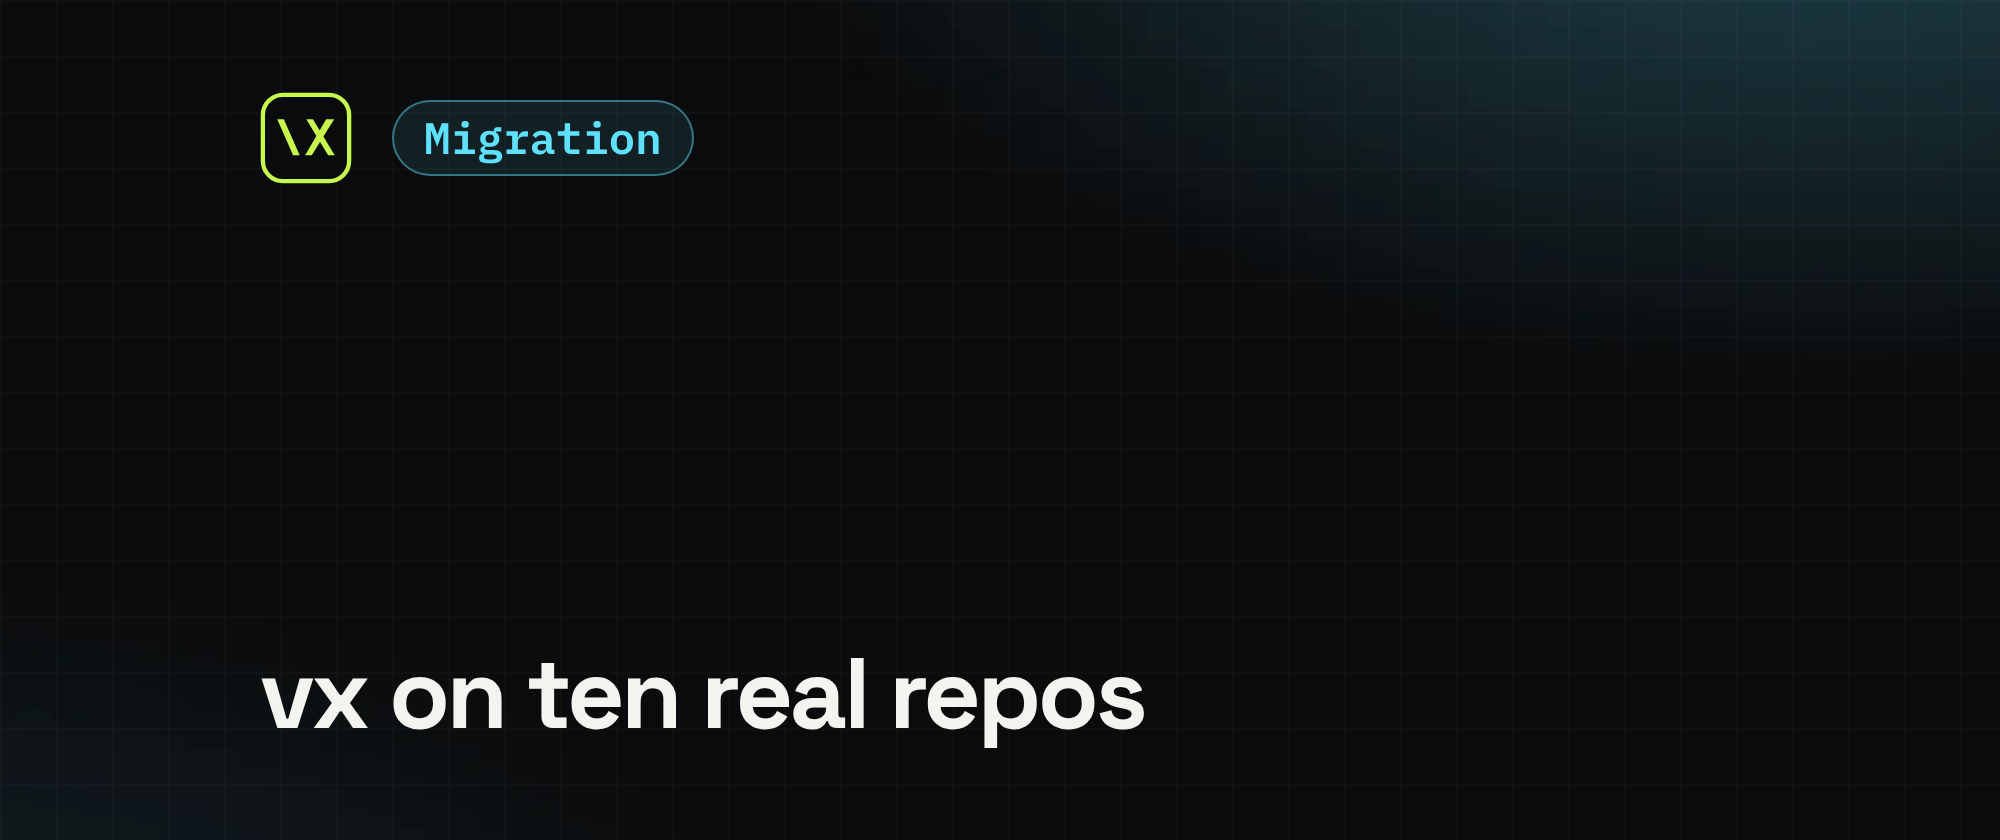
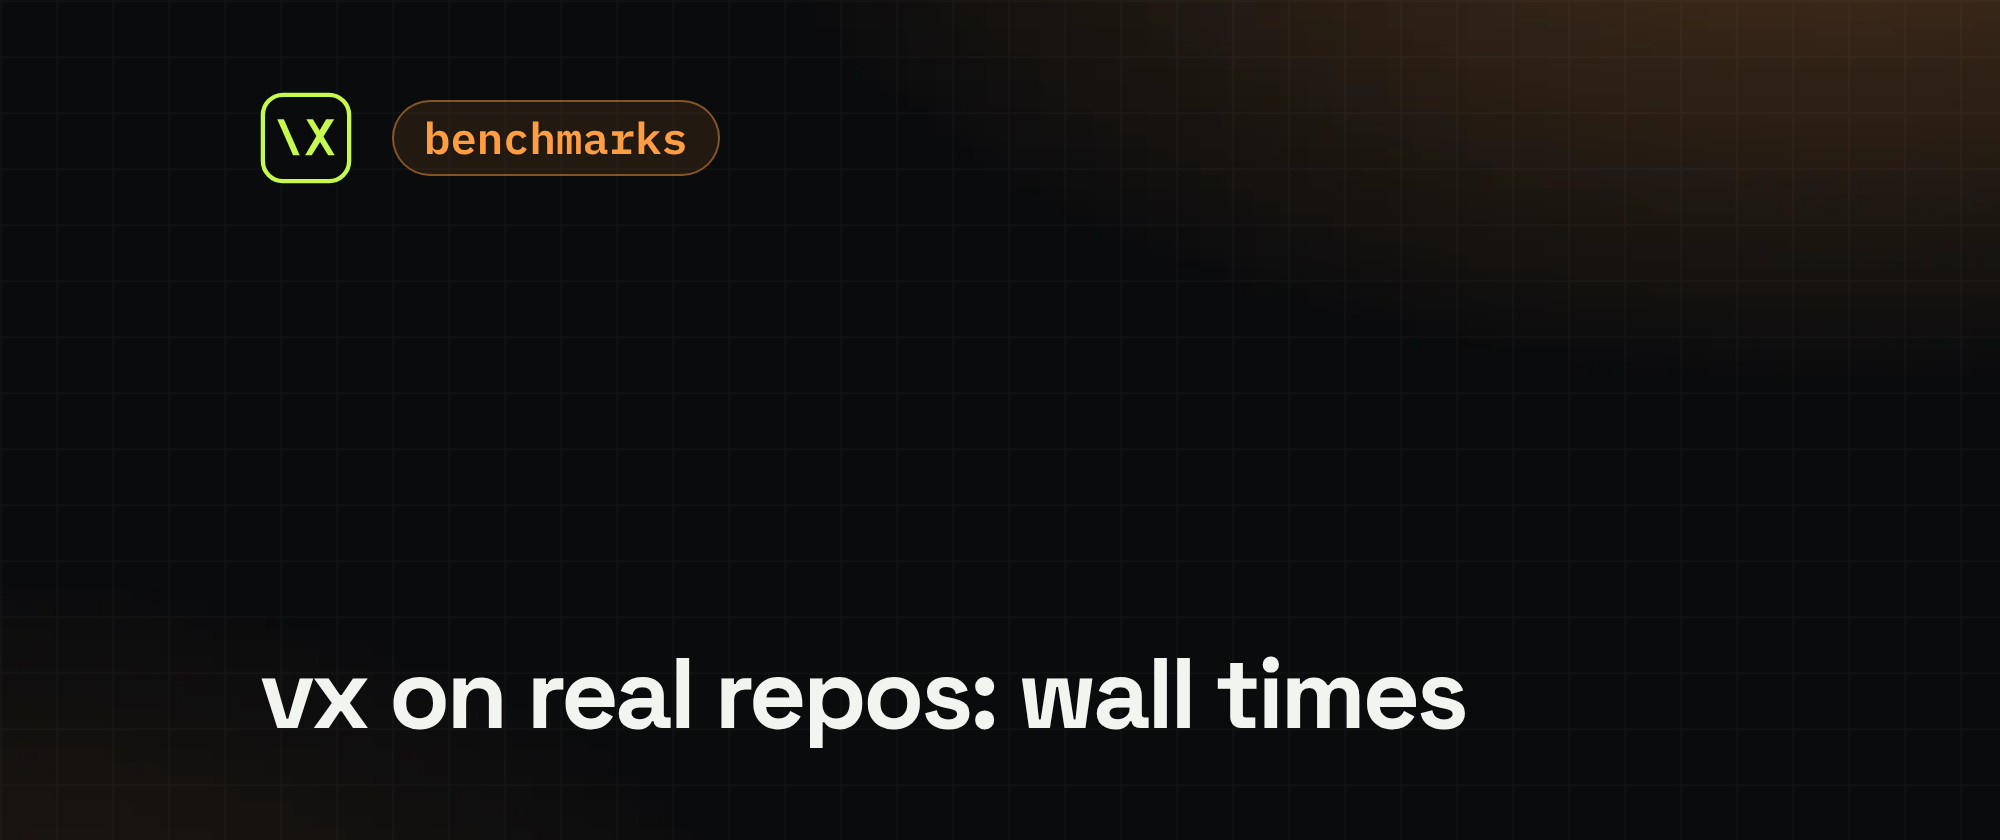
docs(vx-docs): make vx-on-real-repos a wall-time post
Claude-Session: https://claude.ai/code/session_012eDNdmtGv5tY35yRtodFB6

Changed region(s): [[0.651, 0.0, 1.0, 0.1857], [0.248, 0.7738, 0.744, 0.8976], [0.186, 0.1238, 0.372, 0.2167]]

diff --git a/packages/vx-docs/src/content/docs/blog/vx-on-real-repos.md b/packages/vx-docs/src/content/docs/blog/vx-on-real-repos.md
@@ -1,157 +1,89 @@
 ---
-title: 'vx on ten real repos'
-date: 2026-10-14T20:30:00Z
+title: 'vx on real repos: wall times'
+date: 2026-10-14T22:00:00Z
 authors:
   - vzn
 tags:
-  - correctness
+  - benchmarks
   - comparison
-  - migration
-excerpt: 'We moved ten open-source monorepos from Turborepo and Nx to vx and diffed every run against the tool they already use: exit codes, output bytes, cache hits, what an edit re-runs. Most matched. Six bugs were ours, and each is fixed.'
+excerpt: 'Open-source monorepos that already run on Turborepo or Nx, timed under their own runner and under vx: cold, cache restore, one-file edit and a clean clone. Raw seconds, min of three, slower rows included.'
 ---
 
-A synthetic benchmark tells you what a tool costs. It cannot tell you
-whether the tool is right on a repo someone else wrote. So we took
-open-source monorepos that already run on Turborepo or Nx, moved each
-to native vx config with `vx init`, and ran both tools side by side.
-The question was not which one is quicker. It was whether vx builds
-the same thing, restores the same thing and re-runs the same thing.
+The [synthetic benchmark](../honest-benchmarks/) runs one generated
+graph. This post times repos someone else wrote: open-source monorepos
+that already use Turborepo or Nx, each moved to native vx config with
+`vx init`, then run under both tools on the same machine.
 
-## The method
-
-Every repo was pinned to one commit, with its own lockfile and its own
-package manager. vx was built from `main` at the time of each run. For
-each repo the harness ran:
-
-1. **Cold.** Caches and outputs wiped. The rival ran twice, to learn
-   what it does not reproduce against itself. vx ran once.
-2. **Restore.** Outputs wiped, caches kept. Every task should be a hit.
-3. **Edit.** One file changed. The set of tasks each tool re-runs
-   should match.
-4. **Clean clone.** A fresh `git clone` at another path sharing the
-   cache. Every task should be a hit again.
-
-After each arm it compared exit codes, the sha256 of every untracked
-file the run wrote, and hit or miss per task. For `--affected` it made
-one committed change per scenario and compared vx's projects with
-`turbo ls --affected` or `nx show projects --affected`.
+Both tools build the same outputs; that is the assumption behind every
+row.
 
 ## The repos
 
-| Repo | Commit | Rival | Tasks compared | Result |
-| --- | --- | --- | --- | --- |
-| create-t3-turbo | 8f945b7 | Turborepo 2.5.8 | `build typecheck`, 11 | parity after two fixes |
-| react-email | 1531a39 | Turborepo 2.9.14 | `build`, 4 | parity |
-| trpc | d756e59 | Turborepo 2.10.12 | `build`, 7 | parity |
-| vueuse | ad2822b | Turborepo 2.10.12 | `build`, 12 | parity (both fail cold) |
-| medusa | 5018ab67 | Turborepo 1.13.4 | `build build:plugin`, 83 | parity after two fixes |
-| cal.com | 54343aa | Turborepo 2.7.1 | `build`, embeds and platform | parity, one cosmetic diff |
-| TanStack query | 817bd02 | Nx 23.2.1 | `build`, 25 | parity |
-| vercel/ai | e8c8e32 | Turborepo 2.9.14 | `build`, 82 | parity |
-| documenso | d4e6eeaf | Turborepo 2.10.5 | `--affected`, 9 commits and working-tree edits | parity |
-| typescript-eslint | 57e7cccce | Nx 23 | `--affected` | after one fix, vx never selects less |
+| Repo | Commit | Rival | Tasks timed |
+| --- | --- | --- | --- |
+| create-t3-turbo | 8f945b7 | Turborepo 2.5.8 | `build typecheck`, 11 |
+| vercel/ai | e8c8e32 | Turborepo 2.9.14 | `build`, 82 |
+| typescript-eslint | 57e7cccce | Nx 23.2.0 | `build`, 18 |
 
-An eleventh, n8n, never got that far: its `pnpm install` could not
-fetch a tarball through our runner's network policy.
+## Method
 
-## Where they matched
+- One cloud container: 4 vCPU (Intel Xeon @ 2.10GHz), 15 GB RAM, Linux
+  6.18, nothing else running.
+- vx built from `main` (d81d9b4) with `bun build --compile` on Bun 1.4.2,
+  configs from `vx init`, then `vx lock`. Node 22.22.0.
+- Concurrency 10 for vx and Turborepo; Nx at `--parallel=5`.
+- Local cache only for both tools: no remote cache, no daemon, no
+  telemetry.
+- Four arms, each tool wiping only its own cache:
+  - **cold**: cache and every build output wiped.
+  - **restore**: outputs wiped, cache kept.
+  - **edit**: one source file gets a new line, outputs kept.
+  - **clone**: a fresh `git clone` at another path sharing the first
+    checkout's cache, with no outputs.
+- Three reps. Each rep runs every arm for both tools, and the order
+  alternates (the rival first in reps 1 and 3, vx first in rep 2). Each
+  cell is the minimum of the three, in seconds.
 
-On react-email, TanStack query and vercel/ai, every arm agreed. trpc
-agreed on cold, restore and edit; it had no clean-clone arm.
-vercel/ai is the largest: 82 packages, 783 tasks written with no
-`TODO` left, identical output trees (0 name and 0 byte differences),
-82 of 82 hits on restore and on a clean clone, and the same re-run set
-for a source file, a `package.json`, a README, a `tsconfig.json`, a new
-test file, a deleted `CHANGELOG.md` and three environment variables.
-TanStack query came from Nx's resolved project graph: 614 tasks, no
-`TODO`, identical cold trees, 25 of 25 hits on restore and clone, and
-the same one hit and 24 runs after an edit to `query-core`.
+## Results
 
-Some differences were the same under both tools. Next.js names chunks
-nondeterministically, so react-email's trees differ between two Turbo
-runs too. A file no task declares as an output, like a `next-env.d.ts`
-or svelte-kit's intermediates, is not restored by either.
+Seconds, min of 3. Lower is less time.
 
-## Where vx was worse, and what we fixed
+### create-t3-turbo (Turborepo 2.5.8)
 
-Six problems were ours, and each fix is merged.
+| Arm | Turborepo | vx |
+| --- | ---: | ---: |
+| cold | 14.55 | 12.52 |
+| restore | 0.31 | 0.12 |
+| edit `validators/src/index.ts` (4 of 11 re-run) | 5.14 | 5.61 |
+| clone | 0.32 | 0.12 |
 
-- **Ordering edges that should not exist.** A `main`-only change, never
-  released, ordered a task after any task writing a file it reads. On
-  create-t3-turbo it counted a file the inputs excluded, so every build
-  waited for `prettier --check`, which then failed on the config vx had
-  just written: 10 tasks skipped where Turborepo passed 11 of 11.
-  cal.com got the same extra edges. The change was reverted
-  ([#3514](https://github.com/vznjs/vx/pull/3514)).
-- **Written configs that broke the repo's own checks.** On medusa,
-  `vx init`'s `vx.config.ts` failed two plugin builds with TS1541 (a
-  CommonJS package importing a type from an ES module), and on
-  create-t3-turbo it failed the repo's formatter. `vx init` now writes
-  `.mts` where the package needs it and formats what it writes
-  ([#3526](https://github.com/vznjs/vx/pull/3526)). medusa now passes
-  83 of 83 under both tools.
-- **Tasks mapped as uncached.** Six medusa builds read committed files
-  under their own outputs, so the mapping left them uncached and a
-  restore ran them again: 75 hits to Turborepo's 81. vx now never
-  deletes a committed file under an output and keeps those tasks cached
-  ([#3514](https://github.com/vznjs/vx/pull/3514)); restore is now 83 of 83 under both.
-  On create-t3-turbo, `build` and `typecheck` share one
-  `tsbuildinfo` file, which left three typechecks uncached; that is
-  fixed too ([#3478](https://github.com/vznjs/vx/pull/3478)).
-- **A glob that matched less than Turborepo's.** Turborepo's `*/**`
-  also matches a package's root files; the mapped glob did not, so
-  medusa's restore left one `tsconfig.tsbuildinfo` out. Outputs and
-  inputs now match as Turborepo does
-  ([#3542](https://github.com/vznjs/vx/pull/3542),
-  [#3543](https://github.com/vznjs/vx/pull/3543)). We checked Nx too:
-  its hasher does not let a trailing `/**` match zero segments, and
-  `nx()` already agrees with it.
-- **An empty task that stopped every command.** On typescript-eslint,
-  init wrote an empty `nx-input:default` task, and every vx verb then
-  refused the config. It no longer writes one
-  ([#3541](https://github.com/vznjs/vx/pull/3541)).
-- **A wrong next step.** With `--no-install`, init skipped writing the
-  lock but still suggested `vx run build --all`, which stops with "no
-  lock". It now names `vx lock`
-  ([#3552](https://github.com/vznjs/vx/pull/3552)).
+### vercel/ai (Turborepo 2.9.14)
 
-One more is a habit, not a bug. A harness that wipes `.vx` the way it
-wipes `.turbo` or `.nx` deletes `.vx/workspace.ts` too, and vx then
-stops with "no .vx/workspace.ts". Wipe `.vx/cache`, or run
-`vx cache clean`.
+| Arm | Turborepo | vx |
+| --- | ---: | ---: |
+| cold | 174.61 | 155.66 |
+| restore | 0.98 | 0.43 |
+| edit `provider-utils/src/index.ts` (80 of 82 re-run) | 166.39 | 149.92 |
+| clone | 0.99 | 0.67 |
 
-## Where they differ on purpose
+### typescript-eslint (Nx 23.2.0)
 
-- **A `pnpm-workspace.yaml` edit** re-keys every task under vx and none
-  under Turborepo 2.9.14. The workspace file changes what the workspace
-  is, so vx counts it. That is coarse, but it is never stale.
-- **A lockfile edit that changes nothing**, like a comment in
-  `pnpm-lock.yaml`, marks every package affected under Turborepo and
-  none under vx: vx parses the lockfile and keys each project on its
-  own dependency closure.
-- **Root files.** vx lists the root project when a root or tools file
-  changes; `turbo ls --affected` never lists the root.
-- **Task edges.** On typescript-eslint, vx sometimes selects more than
-  `nx show projects --affected`. Every package's `lint` depends on the
-  repo's own `typescript-eslint#build`, so a change there really does
-  change each lint's key. Nx answers per project and misses it.
-- **`turbo.json` and `nx.json`** are not read after `vx init`: their
-  settings are in the written configs.
+| Arm | Nx | vx |
+| --- | ---: | ---: |
+| cold | 63.82 | 49.04 |
+| restore | 5.45 | 5.75 |
+| edit | 47.84 | 46.09 |
+| clone | 4.65 | 6.61 |
 
-Two runs failed under both tools for reasons outside either: a cal.com
-package whose `npx rimraf` hit a certificate error through our proxy,
-and vueuse, whose build reads a file only the repo's own script
-generates first. cal.com's Prisma client also came out with the same
-JSON keys in another order under vx; that is noted, not fixed.
+On typescript-eslint, Nx's first clone rep missed all 18 tasks
+(64.2 s) and hit in the other two; the minimum shows the hit.
 
-## Try it on yours
+## Run it on yours
 
 ```bash
 npx @vzn/vx init
 npx @vzn/vx run build --all
 ```
 
-`vx init` writes native config beside `turbo.json` or `nx.json`. If a
-run differs from your current tool, `vx why <project>#<task>` names
-what moved in a task's key. Every problem above started as a diff like
-that. More at [vznjs.github.io/vx](https://vznjs.github.io/vx/).
+Then time your runner's command and `vx run` on the same machine, each
+on its own cache. More at [vznjs.github.io/vx](https://vznjs.github.io/vx/).
